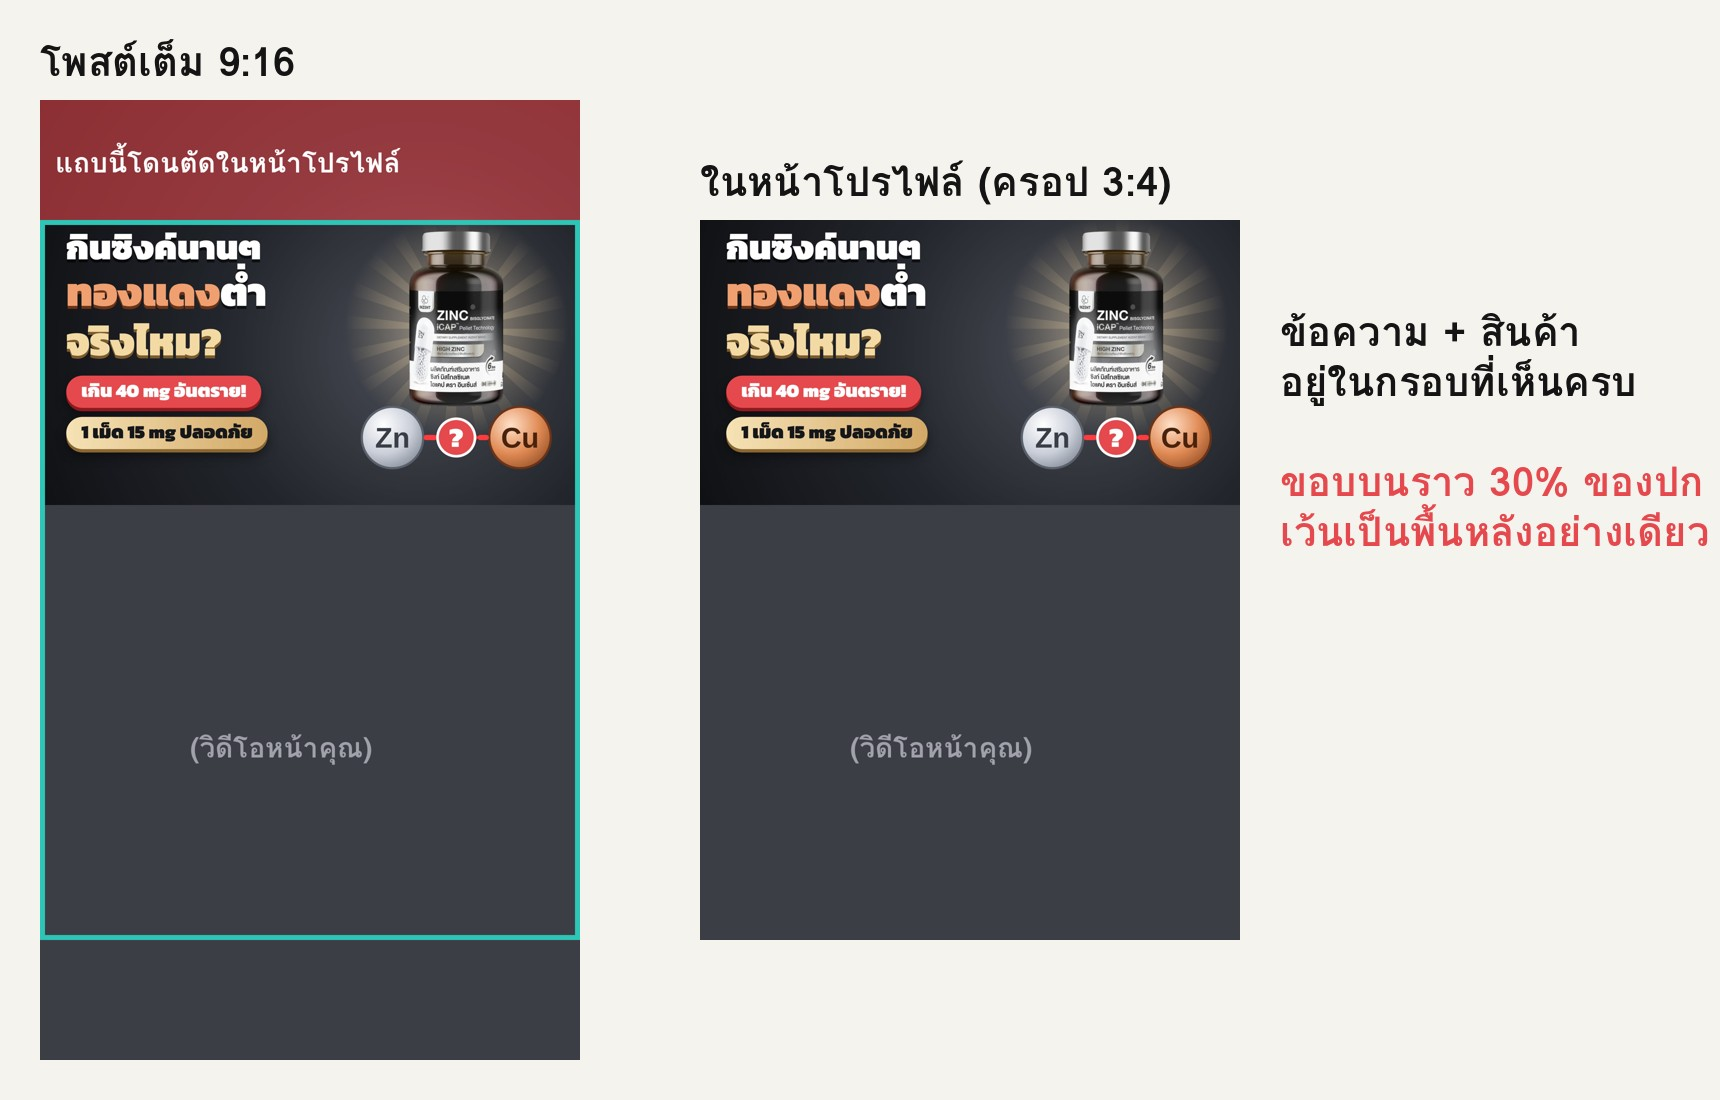
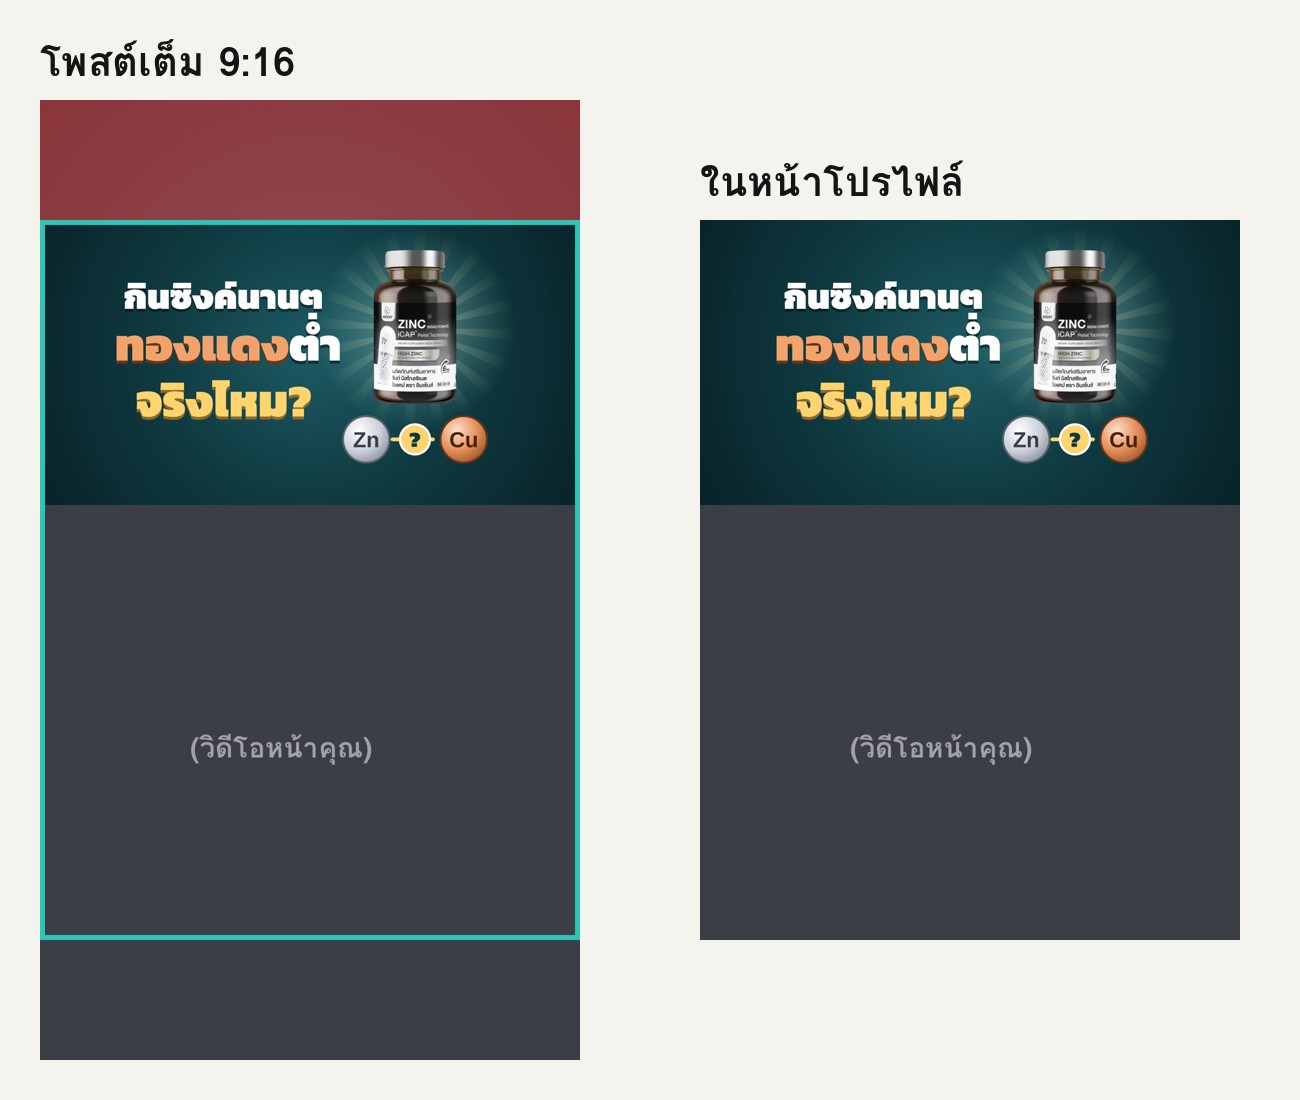
2111 cover: remove pills, centered layout, teal-copper palette
Claude-Session: https://claude.ai/code/session_013vK57e4V6MU13RVwJvX1wC

diff --git a/output/src/2111/cover.html b/output/src/2111/cover.html
@@ -61,27 +61,25 @@ body{font-family:K,sans-serif;color:#fff}
 .capbig{position:absolute;width:260px;height:600px;transform-origin:50% 50%}
 .capbig svg{width:100%;height:100%;display:block;overflow:visible}
 .b30{background-image:url(box30.png)}.b60{background-image:url(box60.png)}
-.cop{color:#F0A070}
+.cop{color:#F2A36B}
 </style></head><body>
-<div id="stage" style="background:radial-gradient(circle at 70% 62%,#4A4E57 0%,#22252B 45%,#0B0C0F 100%)">
-<div class="rays" style="position:absolute;left:800px;top:300px;width:620px;height:620px"></div>
+<div id="stage" style="background:radial-gradient(circle at 50% 62%,#1D5A63 0%,#0F3940 42%,#061A1F 100%)">
+<div class="rays" style="position:absolute;left:720px;top:330px;width:560px;height:560px;opacity:.8"></div>
 <svg style="position:absolute;left:0;top:0;width:1440px;height:1080px" viewBox="0 0 1440 1080">
 <defs><radialGradient id="zz" cx=".35" cy=".3" r=".85"><stop offset="0" stop-color="#fff"/><stop offset=".55" stop-color="#C9CED8"/><stop offset="1" stop-color="#7C838F"/></radialGradient>
 <radialGradient id="cc" cx=".35" cy=".3" r=".85"><stop offset="0" stop-color="#FFE0C8"/><stop offset=".55" stop-color="#E08A55"/><stop offset="1" stop-color="#8E4A22"/></radialGradient>
-<radialGradient id="gw"><stop offset="0" stop-color="#FFECC8" stop-opacity=".6"/><stop offset="1" stop-color="#D9B98A" stop-opacity="0"/></radialGradient></defs>
-<circle cx="1110" cy="600" r="300" fill="url(#gw)"/>
-<image href="jar.png" x="985" y="350" width="250" height="467"/>
-<g transform="translate(940 900)"><circle r="82" fill="url(#zz)" stroke="#5B616B" stroke-width="6"/><text y="27" text-anchor="middle" font-family="Arial" font-weight="700" font-size="76" fill="#3A3F47">Zn</text></g>
-<g transform="translate(1280 900)"><circle r="82" fill="url(#cc)" stroke="#6B3418" stroke-width="6"/><text y="27" text-anchor="middle" font-family="Arial" font-weight="700" font-size="76" fill="#4A230E">Cu</text></g>
-<path d="M1030 900 H1190" stroke="#FF3B3F" stroke-width="14" stroke-dasharray="22 14" stroke-linecap="round"/>
-<g transform="translate(1110 900)"><circle r="50" fill="#E5484D" stroke="#fff" stroke-width="7"/><text y="25" text-anchor="middle" font-family="K" font-weight="900" font-size="74" fill="#fff">?</text></g>
+<radialGradient id="gw"><stop offset="0" stop-color="#E8FFF8" stop-opacity=".45"/><stop offset="1" stop-color="#7FD6C8" stop-opacity="0"/></radialGradient></defs>
+<circle cx="1000" cy="610" r="270" fill="url(#gw)"/>
+<image href="jar.png" x="890" y="400" width="220" height="411"/>
+<g transform="translate(870 905)"><circle r="62" fill="url(#zz)" stroke="#5B616B" stroke-width="5"/><text y="21" text-anchor="middle" font-family="Arial" font-weight="700" font-size="58" fill="#3A3F47">Zn</text></g>
+<g transform="translate(1130 905)"><circle r="62" fill="url(#cc)" stroke="#6B3418" stroke-width="5"/><text y="21" text-anchor="middle" font-family="Arial" font-weight="700" font-size="58" fill="#4A230E">Cu</text></g>
+<path d="M940 905 H1060" stroke="#FFD36E" stroke-width="10" stroke-dasharray="18 12" stroke-linecap="round"/>
+<g transform="translate(1000 905)"><circle r="40" fill="#FFD36E" stroke="#fff" stroke-width="6"/><text y="20" text-anchor="middle" font-family="K" font-weight="900" font-size="58" fill="#0F3940">?</text></g>
 </svg>
-<div style="position:absolute;left:70px;top:340px;width:820px">
- <div class="big" style="text-align:left;font-size:92px;color:#fff;text-shadow:0 8px 0 rgba(0,0,0,.6)">กินซิงค์นานๆ</div>
- <div class="big" style="text-align:left;font-size:108px;line-height:1.22"><span class="cop" style="text-shadow:0 8px 0 #6B3418">ทองแดง</span><span style="color:#fff;text-shadow:0 8px 0 rgba(0,0,0,.6)">ต่ำ</span></div>
- <div class="big" style="text-align:left;font-size:108px;line-height:1.22;color:#F3D9A4;text-shadow:0 8px 0 #7A5B2E">จริงไหม?</div>
- <div style="margin-top:26px"><span class="pill p-red" style="font-size:50px">เกิน 40 mg อันตราย!</span></div>
- <div style="margin-top:24px"><span class="pill p-gold" style="font-size:50px">1 เม็ด 15 mg ปลอดภัย</span></div>
+<div style="position:absolute;left:200px;top:470px;width:580px;text-align:center">
+ <div class="big" style="font-size:94px;color:#fff;text-shadow:0 7px 0 rgba(0,0,0,.45)">กินซิงค์นานๆ</div>
+ <div class="big" style="font-size:122px;line-height:1.22"><span class="cop" style="text-shadow:0 8px 0 #6B3418">ทองแดง</span><span style="color:#fff;text-shadow:0 8px 0 rgba(0,0,0,.45)">ต่ำ</span></div>
+ <div class="big" style="font-size:122px;line-height:1.22;color:#FFD36E;text-shadow:0 8px 0 #8A6731">จริงไหม?</div>
 </div>
 </div>
 <script>window.render=function(){}</script></body></html>
